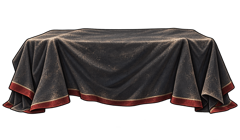
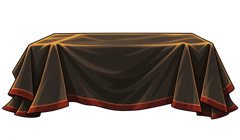
Align Dial and prop art with character style

Changed region(s): [[0.0, 0.1714, 1.0, 0.8571]]

diff --git a/Documentation/CelestialDial/STYLE-PASS-2026-09-24.md b/Documentation/CelestialDial/STYLE-PASS-2026-09-24.md
@@ -2,7 +2,7 @@
 
 ## Authority and scope
 
-This pass follows the canonical `ascendant-style-reference-2026-09-23.png` and the Atrium amendment dated 2026-09-24. The work is art-only: no code, layout, slot sizes, labels, wording, importer settings, or light-overlay crunch settings changed.
+This pass follows the attached Scorpio and Capricorn references as the shared style authority for regenerated raster art: warm amber cinematic lighting, clean dark contours, simplified hand-painted cel-shading, rich graphic shadows, restrained detail, and grounded mature proportions. The work is art-only: no code, layout, slot sizes, labels, wording, importer settings, or light-overlay crunch settings changed.
 
 ## PR 1 — rooms and light overlays
 
@@ -16,7 +16,9 @@ The fixed rects were checked against the 360 × 800 composition before replacing
 
 ## PR 2 — Dial face, props, and character style check
 
-Regenerated the hand-painted phoenix `dial-face` with transparent pixels outside its circle, plus `door-open`, `door-sealed`, `shelves`, `desk`, `furniture-covered`, `shelf`, `shelf-book`, `chair`, `candle`, `lamp`, and `keeper-key`. The existing `table.png` is retained because it already has the required exact 3 × 4 / twelve-cell arrangement; generated candidates were rejected when they produced nine cells. The existing Caspar identity remains compatible with the reference. After the attached Scorpio character references were supplied, `keeper-idle` and `keeper-walk` were regenerated again: African-American teen, semi-curly wet afro, black shirt, dark pants, light sneakers, warm amber rim light, rich charcoal shadows, and the attached clean cinematic linework.
+Regenerated the hand-painted phoenix `dial-face` with transparent pixels outside its circle, plus `door-open`, `door-sealed`, `shelves`, `desk`, `furniture-covered`, `shelf`, `shelf-book`, `chair`, `candle`, `lamp`, and `keeper-key`. `caspar` was also regenerated to match the same warm cinematic linework while preserving his identity. The existing `table.png` is retained because it already has the required exact 3 × 4 / twelve-cell arrangement; generated candidates were rejected when they produced nine cells. After the attached Scorpio character references were supplied, `keeper-idle` and `keeper-walk` were regenerated again: African-American teen, semi-curly wet afro, black shirt, dark pants, light sneakers, warm amber rim light, rich charcoal shadows, and the attached clean cinematic linework.
+
+This is the standing checklist for future raster art: use the attached character references, preserve registered dimensions and transparency, keep backgrounds dormant, put golden-hour energy only in `-light` overlays, and add no text or labels.
 
 ## Validation record
 
